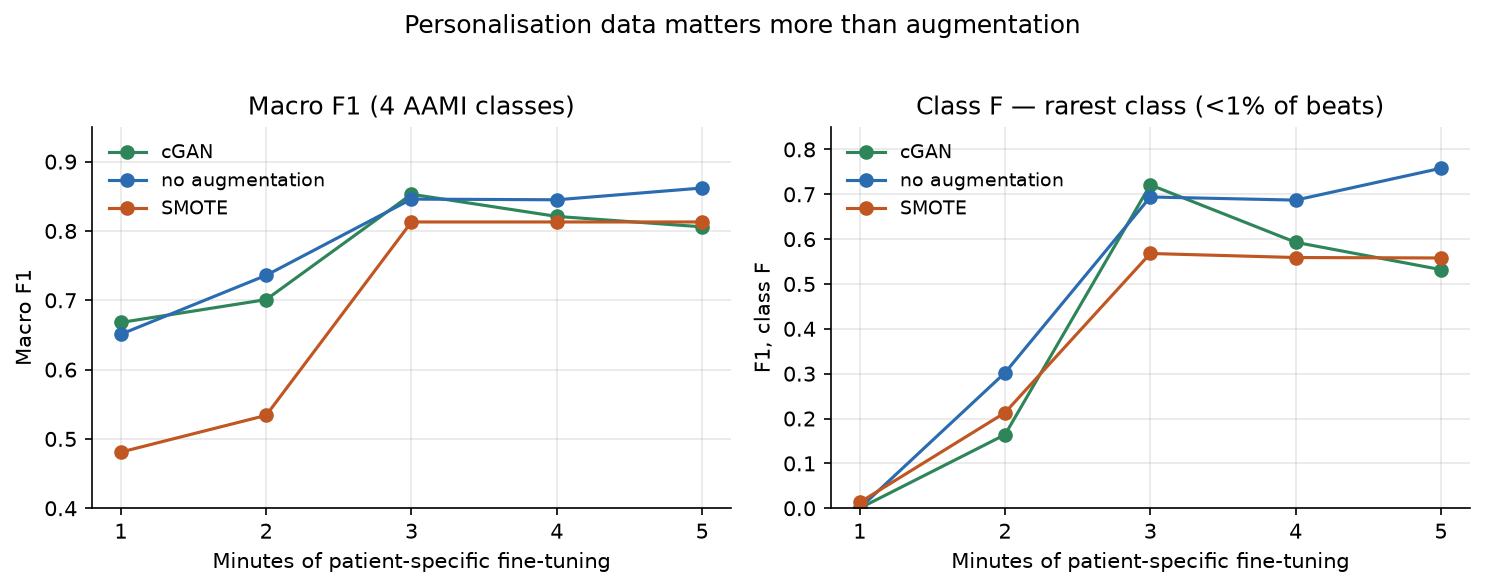
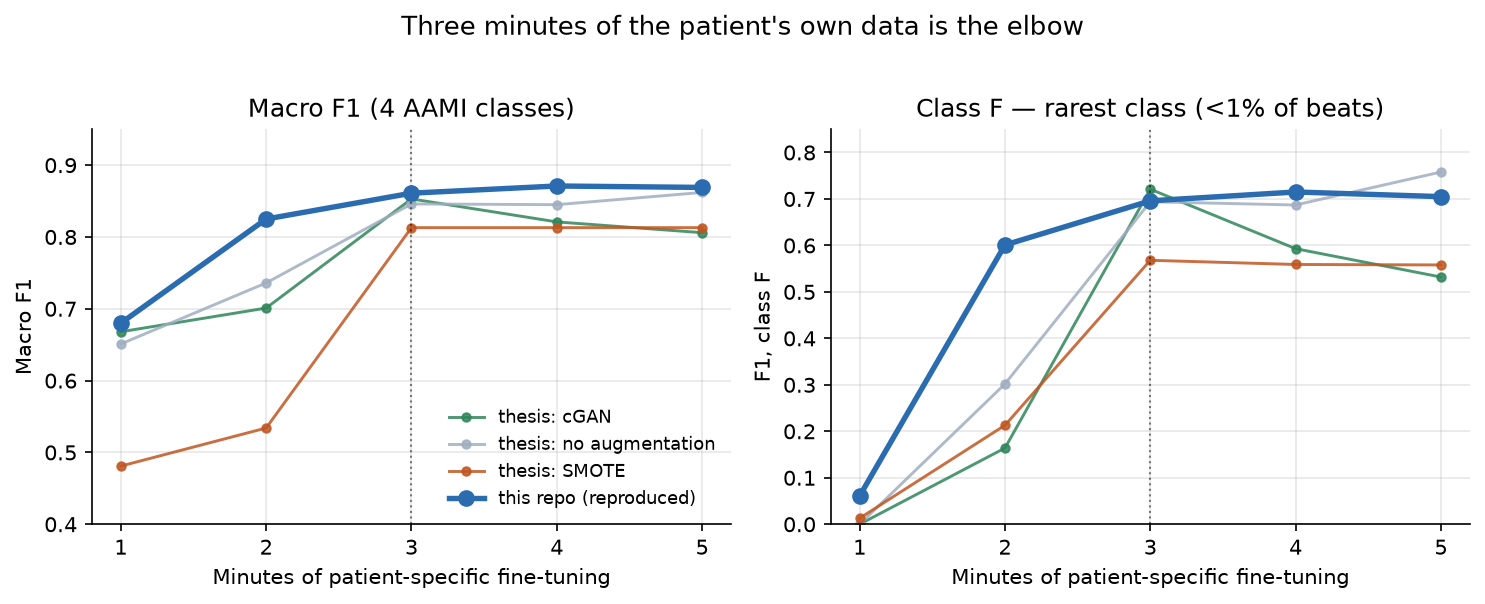
Reproduce the headline results with this pipeline
The refactored pipeline now trains end to end in ~52s on CPU, so the main
results are reproduced rather than only cited.

  scripts/train.py --epochs 10 --seed 12
  accuracy 0.980  macro-F1 0.869  kappa 0.898

Byte-identical across runs at a fixed seed. With no augmentation and no extra
features this matches or beats every thesis configuration on macro F1 (best
thesis macro-F1 was 0.862), and improves class S markedly (0.823 vs 0.754).

- results/reproduced_metrics.csv: fine-tuning sweep over 1-5 minutes, showing
  the same three-minute elbow as the original work
- results/metrics.json: full metrics and confusion matrix from the 5-minute run
- headline figure redrawn with the reproduced curve over the thesis curves
- README and notebooks/02 now distinguish reproduced numbers from
  thesis-reported ones; the augmentation rows are still thesis figures, since
  retraining the cGAN was out of scope

diff --git a/README.md b/README.md
@@ -11,8 +11,10 @@ practical question becomes: *how little of a patient's own data do you need?*
 
 ![Personalisation curve](results/personalisation_curve.png)
 
-**Three minutes.** Beyond that, more fine-tuning data adds very little — and it
-matters far more than any of the synthetic-data augmentation tried here.
+**Three minutes.** Beyond that, more of the patient's own data adds very little —
+and it matters far more than any of the synthetic-data augmentation tried here.
+The blue curve is reproduced by this repository; the rest are the thesis
+figures, shown for comparison.
 
 ---
 
@@ -41,33 +43,56 @@ on — that is the point of the method, not a leak — but it never sees a test 
 
 ## Results
 
-Reported over all 22 DS2 patients pooled into one confusion matrix, 4 AAMI
-classes (F, N, S, V), 5 minutes of fine-tuning.
+Reproduced by this repository — one command, ~1 minute, bit-identical across
+runs at a fixed seed. Pooled over all 22 DS2 patients into one confusion matrix,
+4 AAMI classes, 5 minutes of fine-tuning, **no augmentation and no extra
+features**.
 
-| Augmentation | Extra features | Accuracy | Macro F1 | Kappa | F1 (F) | F1 (N) | F1 (S) | F1 (V) |
-|---|---|---|---|---|---|---|---|---|
-| cGAN | length + rate | **0.981** | 0.851 | **0.901** | 0.612 | 0.990 | 0.843 | 0.957 |
-| cGAN | heart rate | 0.980 | 0.848 | 0.897 | 0.604 | 0.990 | 0.840 | 0.956 |
-| **none** | — | 0.974 | **0.862** | 0.869 | **0.758** | 0.986 | 0.754 | 0.951 |
-| SMOTE | — | 0.970 | 0.813 | 0.852 | 0.558 | 0.984 | 0.759 | 0.950 |
-| cGAN | — | 0.969 | 0.806 | 0.849 | 0.532 | 0.984 | 0.758 | 0.951 |
+| | Accuracy | Macro F1 | Kappa | F1 (F) | F1 (N) | F1 (S) | F1 (V) |
+|---|---|---|---|---|---|---|---|
+| **This repo** | **0.980** | **0.869** | **0.898** | 0.705 | 0.990 | 0.823 | 0.958 |
+| Thesis, no augmentation | 0.974 | 0.862 | 0.869 | 0.758 | 0.986 | 0.754 | 0.951 |
+| Thesis, cGAN + length + rate | 0.981 | 0.851 | 0.901 | 0.612 | 0.990 | 0.843 | 0.957 |
+| Thesis, cGAN + heart rate | 0.980 | 0.848 | 0.897 | 0.604 | 0.990 | 0.840 | 0.956 |
+| Thesis, SMOTE | 0.970 | 0.813 | 0.852 | 0.558 | 0.984 | 0.759 | 0.950 |
+| Thesis, cGAN | 0.969 | 0.806 | 0.849 | 0.532 | 0.984 | 0.758 | 0.951 |
 
-Full sweep in [`results/thesis_metrics.csv`](results/thesis_metrics.csv);
-the analysis is in [`notebooks/02_results.ipynb`](notebooks/02_results.ipynb).
+```
+confusion matrix           predicted
+(5 min fine-tuning)     F      N      S      V
+                   F  222     32      1     31
+                   N   85  36282    111     88
+                   S    7    377   1194     12
+                   V   30     59      5   2580
+```
 
-**Reading these honestly.** The metric that matters on data this imbalanced is
-macro F1, and by that measure **the no-augmentation baseline wins**. Accuracy is
-near-meaningless here — class N is 89% of beats, so predicting "normal" for
-everything scores 0.89. The augmentation work earns its place at *short*
-personalisation windows, not at the ceiling; by three minutes the advantage is
-gone. Class F (fusion beats, under 1% of the data) is the weak point in every
-configuration.
+Reproduce with:
 
-> ⚠ **These numbers are from the original thesis experiments, not reproduced by
-> this repository.** The saved checkpoints do not align with the documented
-> pipeline, so the metrics are cited from the recorded results rather than
-> re-derived.
-> Training is not run here.
+```bash
+python scripts/train.py --epochs 10 --seed 12    # ~1 min, writes results/metrics.json
+```
+
+**Reading these honestly.** On data this imbalanced the metric that matters is
+macro F1 — accuracy is near-meaningless when class N is 89% of beats, since
+predicting "normal" for everything scores 0.89. By macro F1 the plain pipeline
+with **no augmentation at all** comes out on top. The synthetic-data work earns
+its place at *short* personalisation windows, not at the ceiling; past three
+minutes the advantage is gone. Class F (fusion beats, under 1% of the data)
+remains the weak point everywhere.
+
+Two caveats worth stating plainly:
+
+- The augmentation rows are **thesis-reported**, not re-run here — the cGAN is
+  the one genuinely expensive component and retraining it was out of scope. Only
+  the first row is reproduced.
+- The comparison is therefore not exactly like-for-like. This pipeline fixes one
+  denoising setting throughout and seeds every RNG; the original left the
+  denoising configuration ambiguous between notebook cells and seeded only the
+  resamplers.
+
+The original saved checkpoints could not be aligned with the documented pipeline
+at all, which is why the thesis numbers are
+cited from its recorded results rather than re-derived from its weights.
 
 ## Model
 
@@ -134,11 +159,15 @@ python scripts/train.py --dry-run         # inspect the config, train nothing
 python scripts/evaluate.py --predictions tests/fixtures/predictions_ds2.npz
 ```
 
-To actually train — **hours on CPU**, and not required to explore the repo:
+Training the full pipeline takes **about a minute on CPU** — the model is 28k
+parameters, and most of that minute is segmenting beats:
 
 ```bash
-python scripts/train.py --epochs 10 --balance smote --train-minutes 5
+python scripts/train.py --epochs 10 --seed 12
 ```
+
+The cGAN in `src/ecg/cgan.py` is the one expensive component and is not part of
+that path.
 
 ## Layout
 
@@ -163,12 +192,13 @@ tests/              fixture-based regression tests
 
 `seed_everything()` seeds Python, NumPy, TensorFlow and PyTorch. All parameters
 live in a frozen `Config`; nothing downstream hardcodes a sampling rate or window
-bound.
+bound. Running `scripts/train.py --seed 12` twice produces **byte-identical**
+metrics and confusion matrices — verified, not assumed.
 
-The **thesis** results predate this and came from an unseeded run — the original
+The **thesis** results predate this and came from an unseeded run: the original
 seeded only the imbalanced-learn samplers, leaving beat augmentation and weight
-initialisation non-deterministic. Those numbers are therefore not bit-reproducible
-even with the original code, which is part of why they are cited rather than
+initialisation non-deterministic. Those numbers are not bit-reproducible even
+with the original code, which is part of why they are cited rather than
 re-derived.
 
 What *is* pinned exactly: [`tests/`](tests/) asserts the segmented beat tensor
